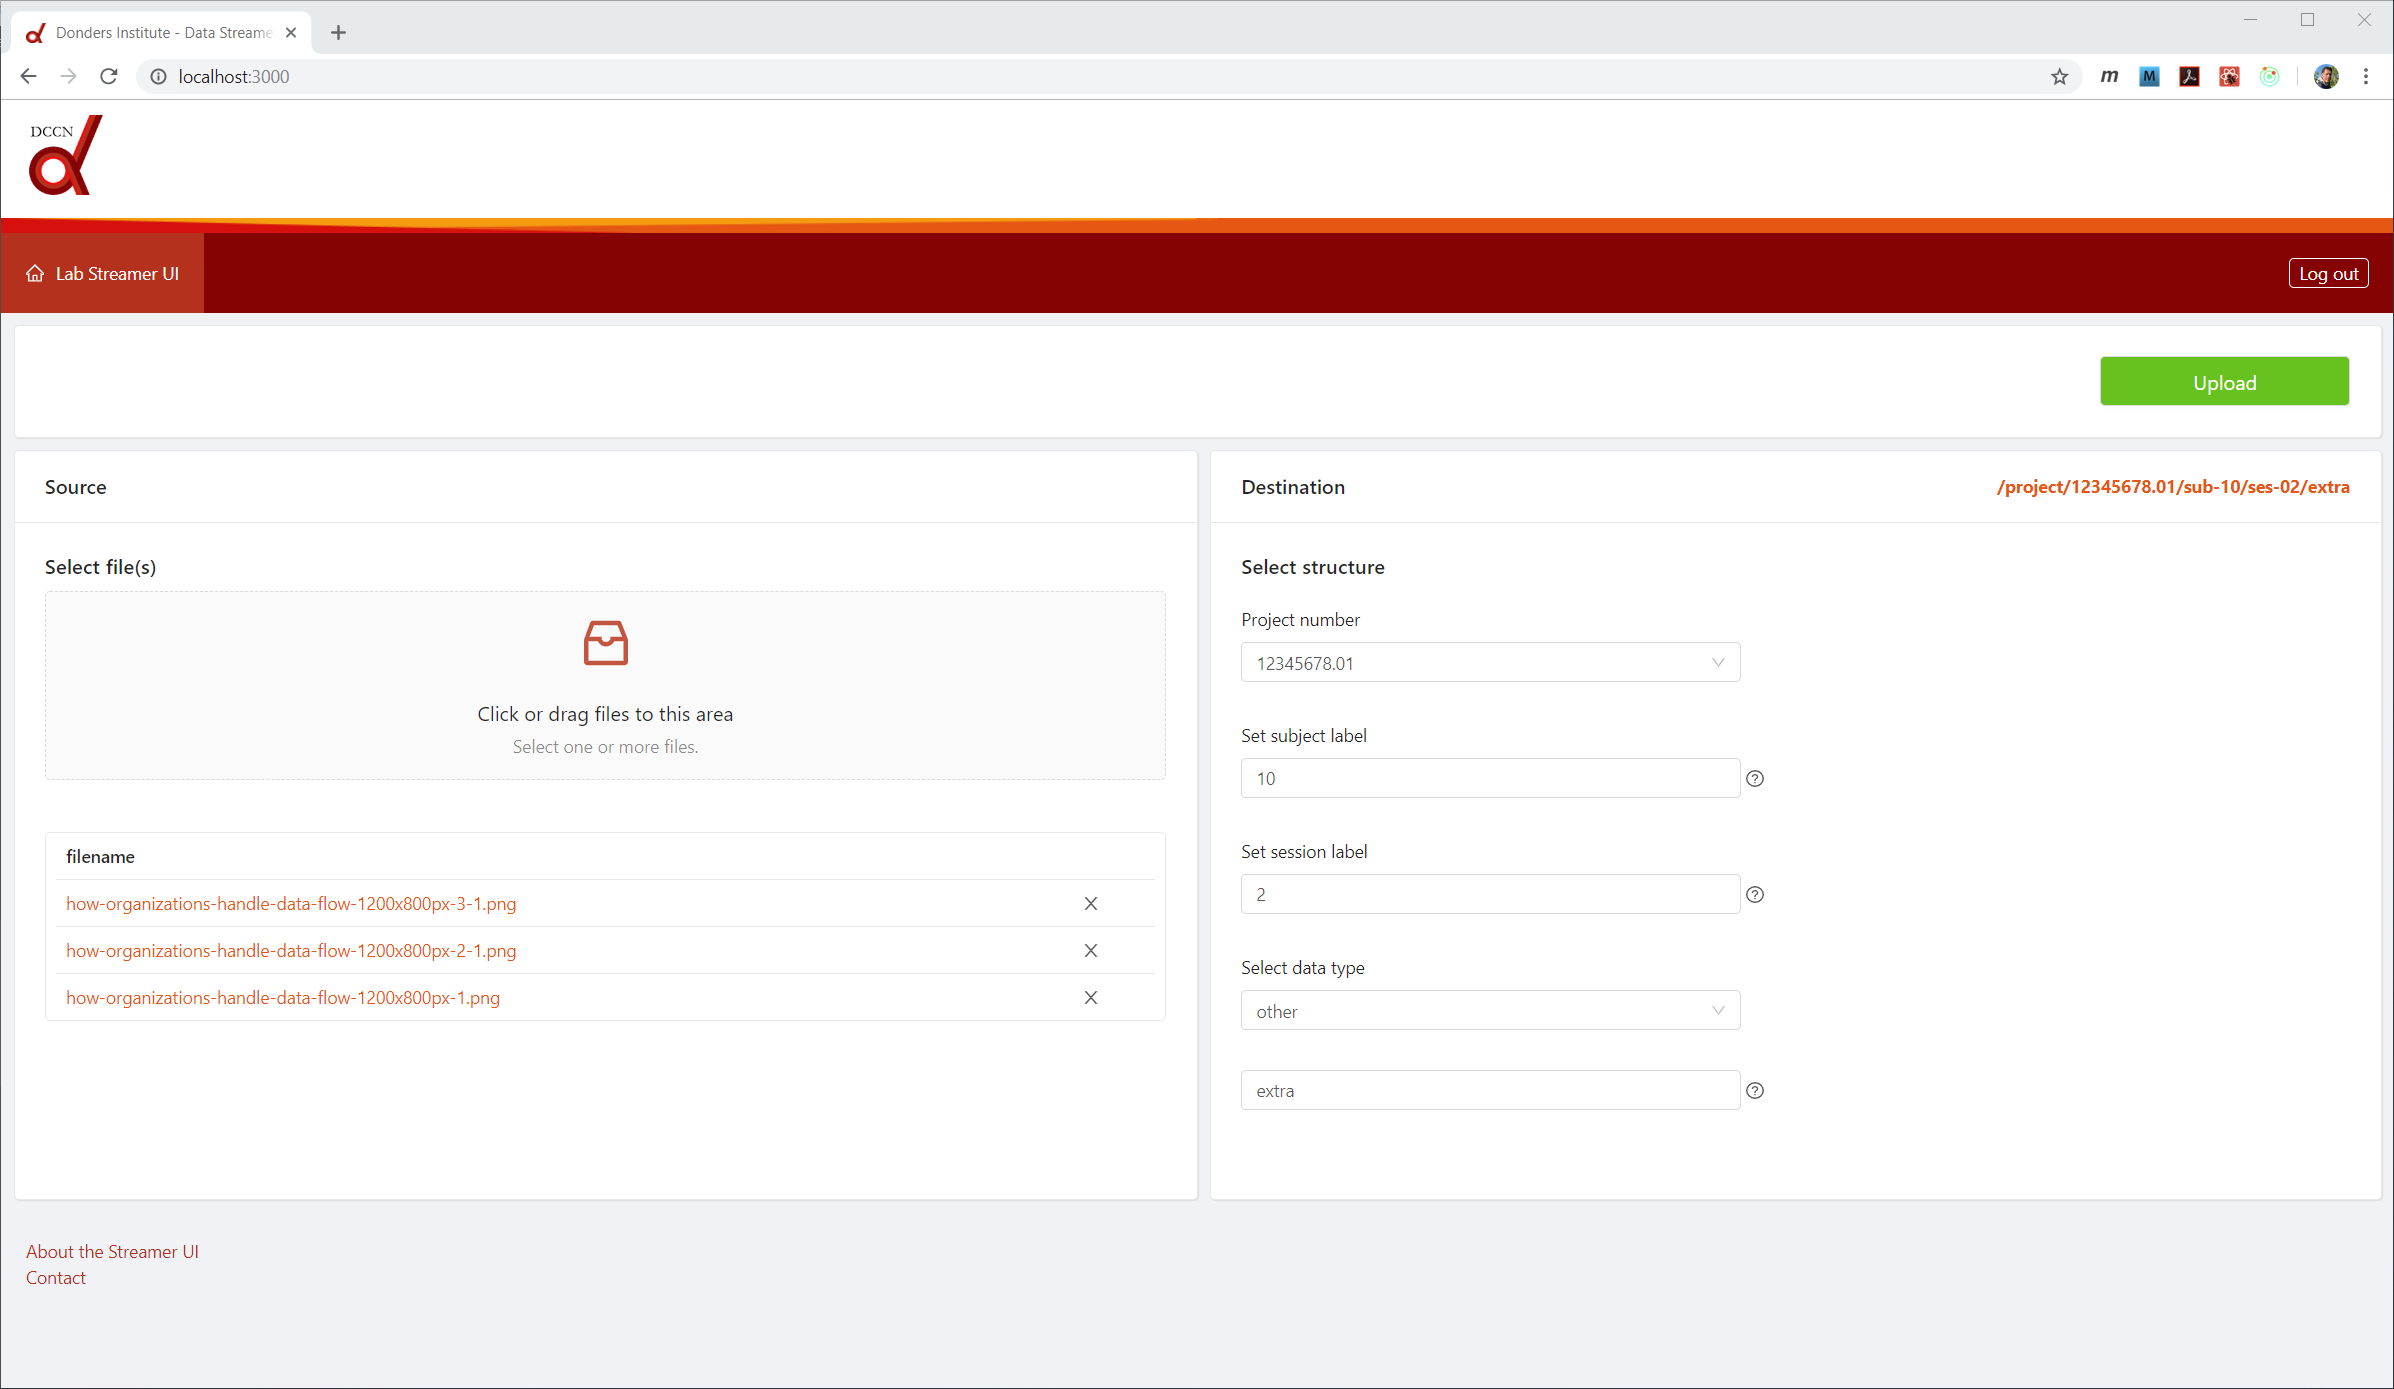
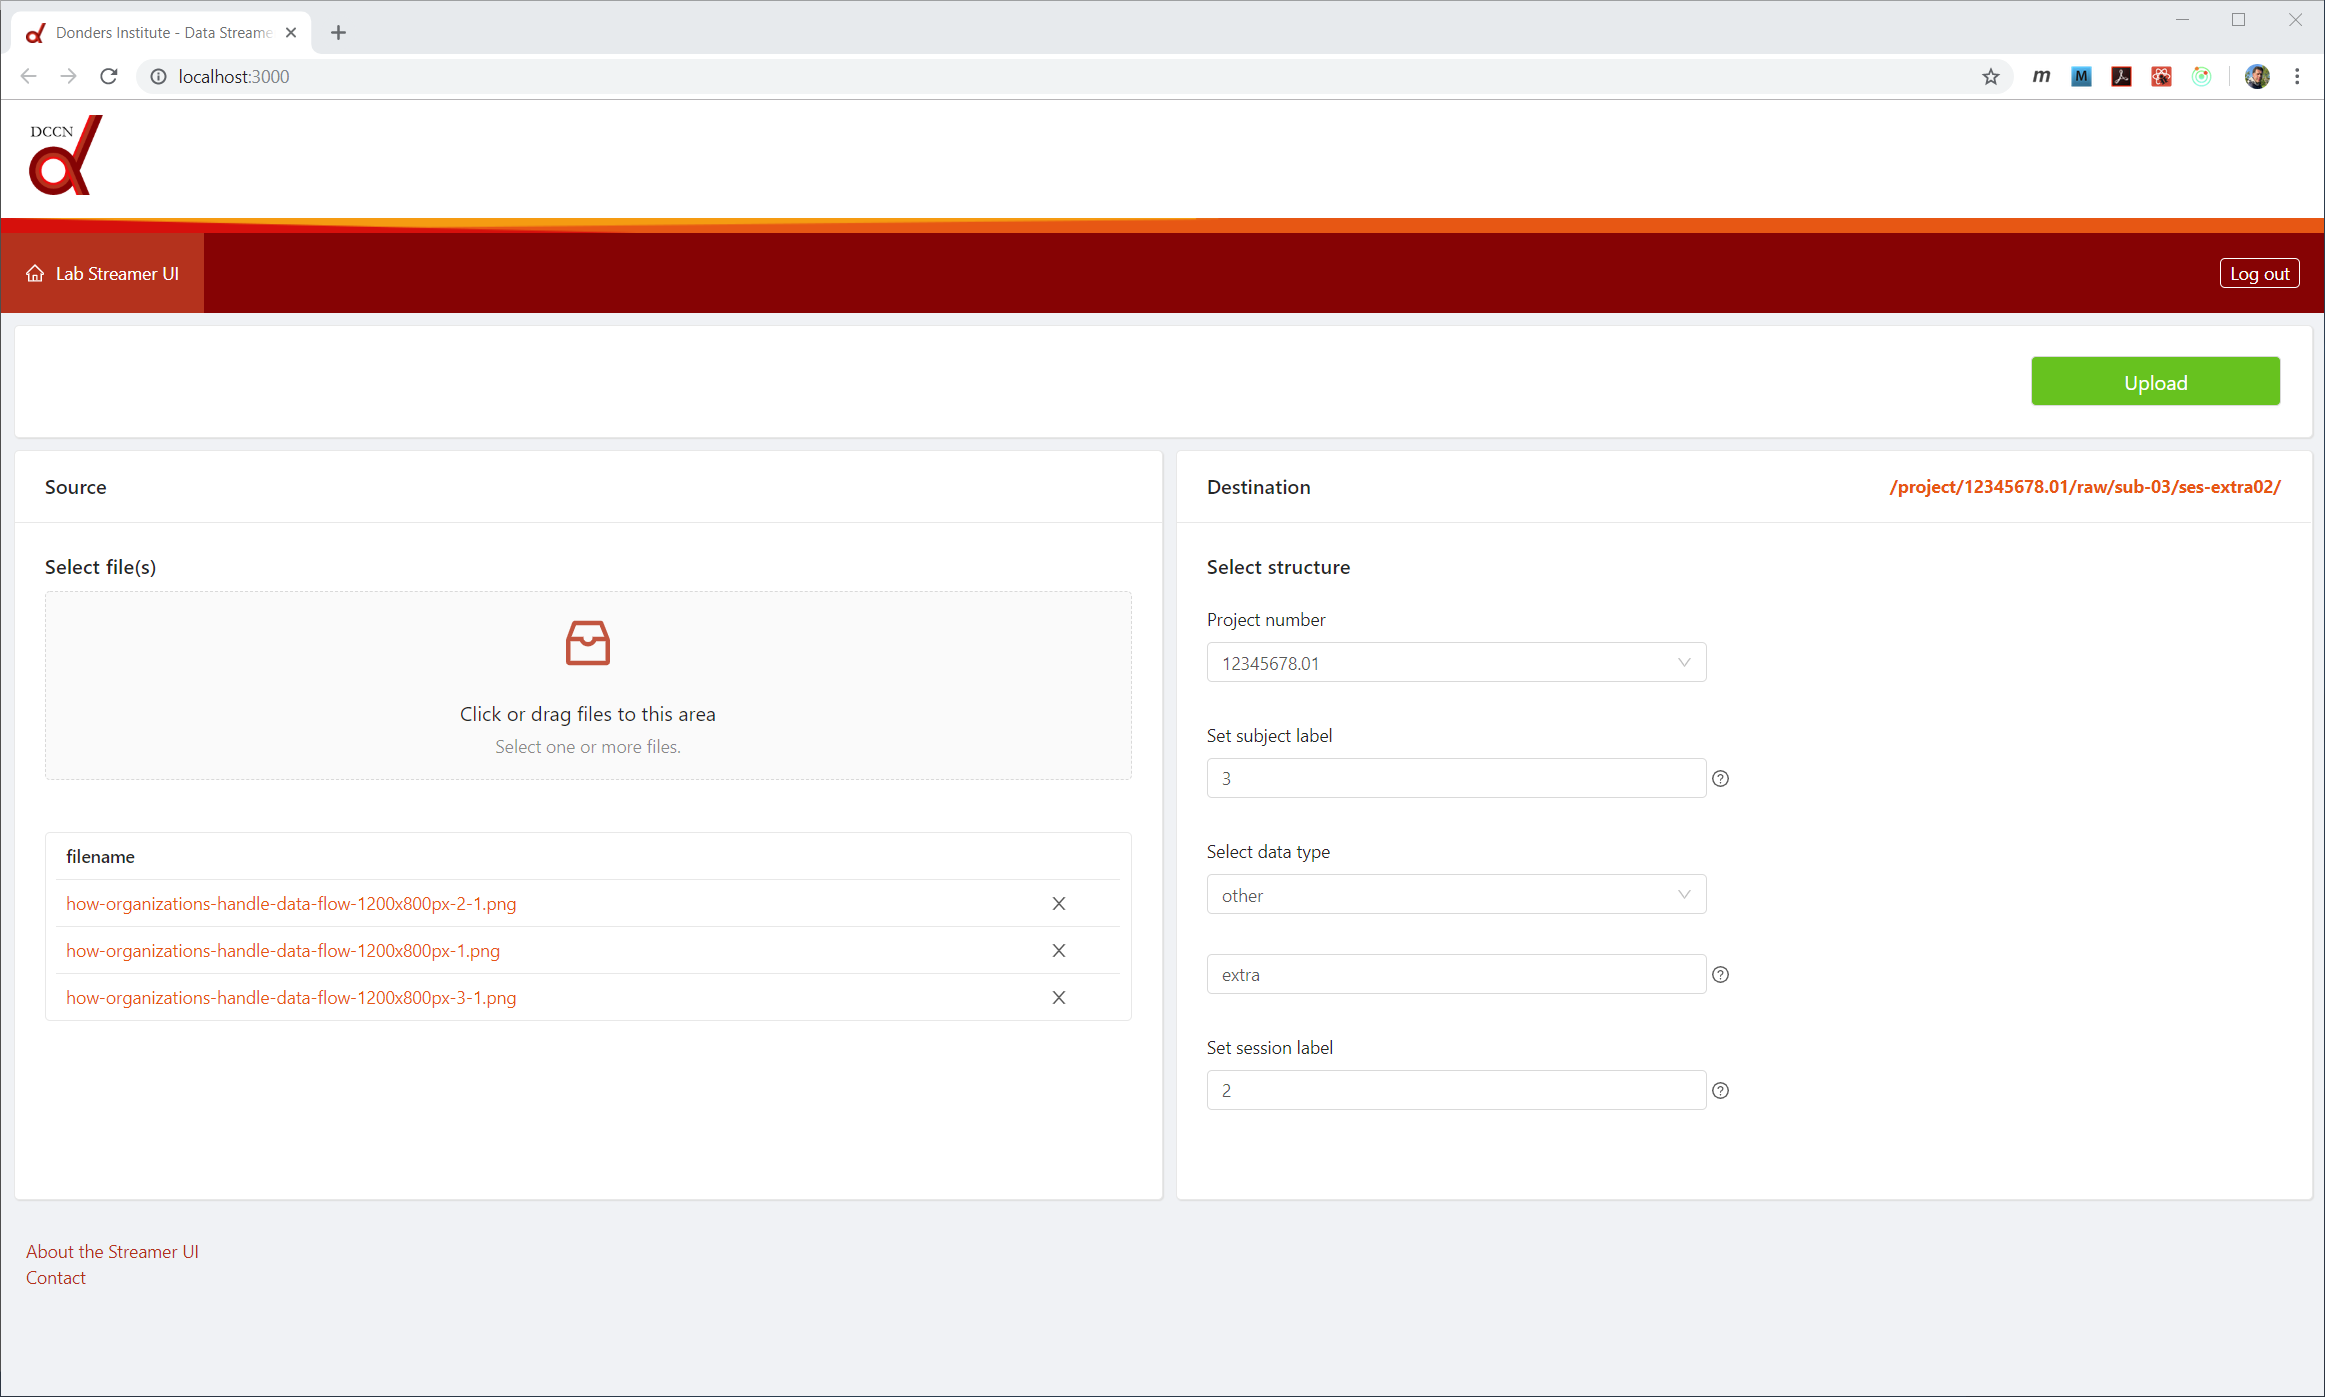
Change order of data type and session select

diff --git a/docker/streamer-ui/src/components/Uploader/Uploader.tsx b/docker/streamer-ui/src/components/Uploader/Uploader.tsx
@@ -22,13 +22,14 @@ type FileListItem = {
 type UploaderAppState = {
     selectedProjectValue: string,
     selectedSubjectValue: string,
-    selectedSessionValue: string,
     selectedDataTypeValue: string,
+    selectedSessionValue: string,
     isSelectedProject: boolean,
     isSelectedSubject: boolean,
-    isSelectedSession: boolean,
     isSelectedDataType: boolean,
     isSelectedDataTypeOther: boolean,
+    doneWithSelectDataType: boolean,
+    isSelectedSession: boolean,
     fileList: FileListItem[], // Antd's internal file list
     fileListClean: FileListItem[], // The file list we use
     hasFilesSelected: boolean,
@@ -149,6 +150,7 @@ class UploaderApp extends React.Component<IProps & FormComponentProps, UploaderA
             isSelectedSession: false,
             isSelectedDataType: false,
             isSelectedDataTypeOther: false,
+            doneWithSelectDataType: false,
             fileList: [],
             fileListClean: [],
             hasFilesSelected: false,
@@ -161,10 +163,14 @@ class UploaderApp extends React.Component<IProps & FormComponentProps, UploaderA
         this.setState({
             selectedProjectValue,
             isSelectedProject: true,
+            selectedSubjectValue: '',
             isSelectedSubject: false,
-            isSelectedSession: false,
+            selectedDataTypeValue: initialDataTypeValue,
             isSelectedDataType: false,
             isSelectedDataTypeOther: false,
+            doneWithSelectDataType: false,
+            selectedSessionValue: '',
+            isSelectedSession: false,
             proceed: false,
         });
     }
@@ -180,11 +186,12 @@ class UploaderApp extends React.Component<IProps & FormComponentProps, UploaderA
             const selectedSubjectValue = event.target.value;
             this.setState({
                 selectedSubjectValue,
-                isSelectedProject: true,
                 isSelectedSubject: true,
-                isSelectedSession: false,
                 isSelectedDataType: false,
                 isSelectedDataTypeOther: false,
+                doneWithSelectDataType: false,
+                isSelectedSession: false,
+                selectedSessionValue: '',
                 proceed: false,
             });
         } else {
@@ -197,11 +204,64 @@ class UploaderApp extends React.Component<IProps & FormComponentProps, UploaderA
             }
             this.setState({
                 selectedSubjectValue,
-                isSelectedProject: true,
                 isSelectedSubject: false,
-                isSelectedSession: false,
                 isSelectedDataType: false,
                 isSelectedDataTypeOther: false,
+                doneWithSelectDataType: false,
+                isSelectedSession: false,
+                selectedSessionValue: '',
+                proceed: false,
+            });
+        }
+    }
+
+    onSelectDataTypeValue = (value: SelectOption) => {
+        const selectedDataTypeValue = value.key;
+        let isSelectedDataTypeOther = false;
+        let doneWithSelectDataType = true;
+        if (selectedDataTypeValue === 'other') {
+            isSelectedDataTypeOther = true;
+            doneWithSelectDataType = false;
+        }
+        this.setState({
+            selectedDataTypeValue,
+            isSelectedDataType: true,
+            isSelectedDataTypeOther: isSelectedDataTypeOther,
+            doneWithSelectDataType: doneWithSelectDataType,
+            selectedSessionValue: '',
+            isSelectedSession: false,
+            proceed: false,
+        });
+    }
+
+    regexpSelectedDataTypeOtherInput = new RegExp('^[a-z]+$');
+    validateSelectedDataTypeOtherInput = (text: string) => {
+        return this.regexpSelectedDataTypeOtherInput.test(text);
+    }
+
+    onChangeSelectedDataTypeOther = (event: any) => {
+        let isValid = this.validateSelectedDataTypeOtherInput(event.target.value);
+        if (isValid) {
+            const selectedDataTypeValue = event.target.value;
+            this.setState({
+                selectedDataTypeValue,
+                doneWithSelectDataType: true,
+                isSelectedSession: false,
+                proceed: true,
+            });
+        } else {
+            let selectedDataTypeValue = event.target.value;
+            // Do not store invalid strings and show error. 
+            // Silently reset in case of empty string.
+            if (selectedDataTypeValue !== '') {
+                selectedDataTypeValue = this.state.selectedDataTypeValue;
+                this.openNotification('Error', `other data type "${event.target.value}" must be all lower case, with no special characters.`, 'error', 4.5);
+            }
+            this.setState({
+                selectedDataTypeValue,
+                doneWithSelectDataType: false,
+                selectedSessionValue: '',
+                isSelectedSession: false,
                 proceed: false,
             });
         }
@@ -218,12 +278,8 @@ class UploaderApp extends React.Component<IProps & FormComponentProps, UploaderA
             const selectedSessionValue = event.target.value;
             this.setState({
                 selectedSessionValue,
-                isSelectedProject: true,
-                isSelectedSubject: true,
                 isSelectedSession: true,
-                isSelectedDataType: false,
-                isSelectedDataTypeOther: false,
-                proceed: false,
+                proceed: true,
             });
         } else {
             let selectedSessionValue = event.target.value;
@@ -235,68 +291,7 @@ class UploaderApp extends React.Component<IProps & FormComponentProps, UploaderA
             }
             this.setState({
                 selectedSessionValue,
-                isSelectedProject: true,
-                isSelectedSubject: true,
                 isSelectedSession: false,
-                isSelectedDataType: false,
-                isSelectedDataTypeOther: false,
-                proceed: false,
-            });
-        }
-    }
-
-    onSelectDataTypeValue = (value: SelectOption) => {
-        const selectedDataTypeValue = value.key;
-        let isSelectedDataTypeOther = false;
-        let proceed = true;
-        if (selectedDataTypeValue === 'other') {
-            isSelectedDataTypeOther = true
-            proceed = false;
-        }
-        this.setState({
-            selectedDataTypeValue,
-            isSelectedProject: true,
-            isSelectedSubject: true,
-            isSelectedSession: true,
-            isSelectedDataType: true,
-            isSelectedDataTypeOther: isSelectedDataTypeOther,
-            proceed: proceed,
-        });
-    }
-
-    regexpSelectedDataTypeOtherInput = new RegExp('^[a-z]+$');
-    validateSelectedDataTypeOtherInput = (text: string) => {
-        return this.regexpSelectedDataTypeOtherInput.test(text);
-    }
-
-    onChangeSelectedDataTypeOther = (event: any) => {
-        let isValid = this.validateSelectedDataTypeOtherInput(event.target.value);
-        if (isValid) {
-            const selectedDataTypeValue = event.target.value;
-            this.setState({
-                selectedDataTypeValue,
-                isSelectedProject: true,
-                isSelectedSubject: true,
-                isSelectedSession: true,
-                isSelectedDataType: true,
-                isSelectedDataTypeOther: true,
-                proceed: true,
-            });
-        } else {
-            let selectedDataTypeValue = event.target.value;
-            // Do not store invalid strings and show error. 
-            // Silently reset in case of empty string.
-            if (selectedDataTypeValue !== '') {
-                selectedDataTypeValue = this.state.selectedDataTypeValue;
-                this.openNotification('Error', `other data type "${event.target.value}" must be all lower case, with no special characters.`, 'error', 4.5);
-            }
-            this.setState({
-                selectedDataTypeValue,
-                isSelectedProject: true,
-                isSelectedSubject: true,
-                isSelectedSession: true,
-                isSelectedDataType: true,
-                isSelectedDataTypeOther: true,
                 proceed: false,
             });
         }
@@ -369,9 +364,9 @@ class UploaderApp extends React.Component<IProps & FormComponentProps, UploaderA
         isSelectedSubject: boolean,
         subjectLabel: string,
         isSelectedSession: boolean,
-        sessionLabel: string,
         isSelectedDataType: boolean,
-        dataType: string) => {
+        dataType: string,
+        sessionLabel: string) => {
 
         let projectPath = <span style={{ fontWeight: 'bold', color: '#f45709' }}>/project</span>;
         let forwardSlashPath = <span style={{ fontWeight: 'bold', color: '#f45709' }}>/</span>;
@@ -381,8 +376,8 @@ class UploaderApp extends React.Component<IProps & FormComponentProps, UploaderA
 
         let projectNumberPath = <span style={{ fontStyle: 'italic' }}>(projectnumber)</span>;
         let subjectLabelPath = <span style={{ fontStyle: 'italic' }}>(subjectlabel)</span>;
-        let sessionLabelPath = <span style={{ fontStyle: 'italic' }}>(sessionlabel)</span>;
         let dataTypePath = <span style={{ fontStyle: 'italic' }}>(datatype)</span>;
+        let sessionLabelPath = <span style={{ fontStyle: 'italic' }}>(sessionlabel)</span>;
 
         if (isSelectedProject) {
             projectNumberPath = <span style={{ fontWeight: 'bold', color: '#f45709' }}>{projectNumber}</span>;
@@ -391,19 +386,19 @@ class UploaderApp extends React.Component<IProps & FormComponentProps, UploaderA
             let cleanSubjectLabel = this.cleanLabel(subjectLabel);
             subjectLabelPath = <span style={{ fontWeight: 'bold', color: '#f45709' }}>{cleanSubjectLabel}</span>;
         }
-        if (isSelectedSession) {
-            let cleanSessionLabel = this.cleanLabel(sessionLabel);
-            sessionLabelPath = <span style={{ fontWeight: 'bold', color: '#f45709' }}>{cleanSessionLabel}</span>;
-        }
         if (isSelectedDataType && dataType !== 'other') {
             dataTypePath = <span style={{ fontWeight: 'bold', color: '#f45709' }}>{dataType}</span>;
         }
         if (isSelectedDataType) {
             if (dataType === 'other' || dataType === '') {
-                dataTypePath = <span style={{ fontStyle: 'italic' }}>datatype</span>;
+                dataTypePath = <span style={{ fontStyle: 'italic' }}>(datatype)</span>;
             } else {
                 dataTypePath = <span style={{ fontWeight: 'bold', color: '#f45709' }}>{dataType}</span>;
             }
+        }
+        if (isSelectedSession) {
+            let cleanSessionLabel = this.cleanLabel(sessionLabel);
+            sessionLabelPath = <span style={{ fontWeight: 'bold', color: '#f45709' }}>{cleanSessionLabel}</span>;
         }
 
         return <div>{projectPath}{forwardSlashPath}{projectNumberPath}{forwardSlashPath}{rawPath}{forwardSlashPath}{subjectPath}{subjectLabelPath}{forwardSlashPath}{sessionPath}{dataTypePath}{sessionLabelPath}{forwardSlashPath}</div>;
@@ -456,9 +451,9 @@ class UploaderApp extends React.Component<IProps & FormComponentProps, UploaderA
             this.state.isSelectedSubject,
             this.state.selectedSubjectValue,
             this.state.isSelectedSession,
-            this.state.selectedSessionValue,
             this.state.isSelectedDataType,
-            this.state.selectedDataTypeValue);
+            this.state.selectedDataTypeValue,
+            this.state.selectedSessionValue);
 
         return (
             <Content style={{ background: '#f0f2f5' }}>
@@ -540,20 +535,6 @@ class UploaderApp extends React.Component<IProps & FormComponentProps, UploaderA
                                         {this.state.isSelectedSubject &&
                                             <Row gutter={16}>
                                                 <Col span={12}>
-                                                    <Form.Item label="Set session label">
-                                                        <Input placeholder="Set session label" onChange={this.onChangeSessionLabel} style={{ width: '400px' }} />&nbsp;
-                                                        <Tooltip title="session label must be 1- or 2-digit number"><Icon type="question-circle-o" /></Tooltip>
-                                                    </Form.Item>
-                                                </Col>
-                                                <Col span={12}>
-
-                                                </Col>
-                                            </Row>
-                                        }
-
-                                        {this.state.isSelectedSession &&
-                                            <Row gutter={16}>
-                                                <Col span={12}>
                                                     <Form.Item label="Select data type">
                                                         <Select
                                                             labelInValue
@@ -586,6 +567,21 @@ class UploaderApp extends React.Component<IProps & FormComponentProps, UploaderA
                                                 </Col>
                                             </Row>
                                         }
+
+                                        {this.state.doneWithSelectDataType &&
+                                            <Row gutter={16}>
+                                                <Col span={12}>
+                                                    <Form.Item label="Set session label">
+                                                        <Input placeholder="Set session label" onChange={this.onChangeSessionLabel} style={{ width: '400px' }} />&nbsp;
+                                                        <Tooltip title="session label must be 1- or 2-digit number"><Icon type="question-circle-o" /></Tooltip>
+                                                    </Form.Item>
+                                                </Col>
+                                                <Col span={12}>
+
+                                                </Col>
+                                            </Row>
+                                        }
+
                                     </Form>
                                 </div>
                             </Card>
